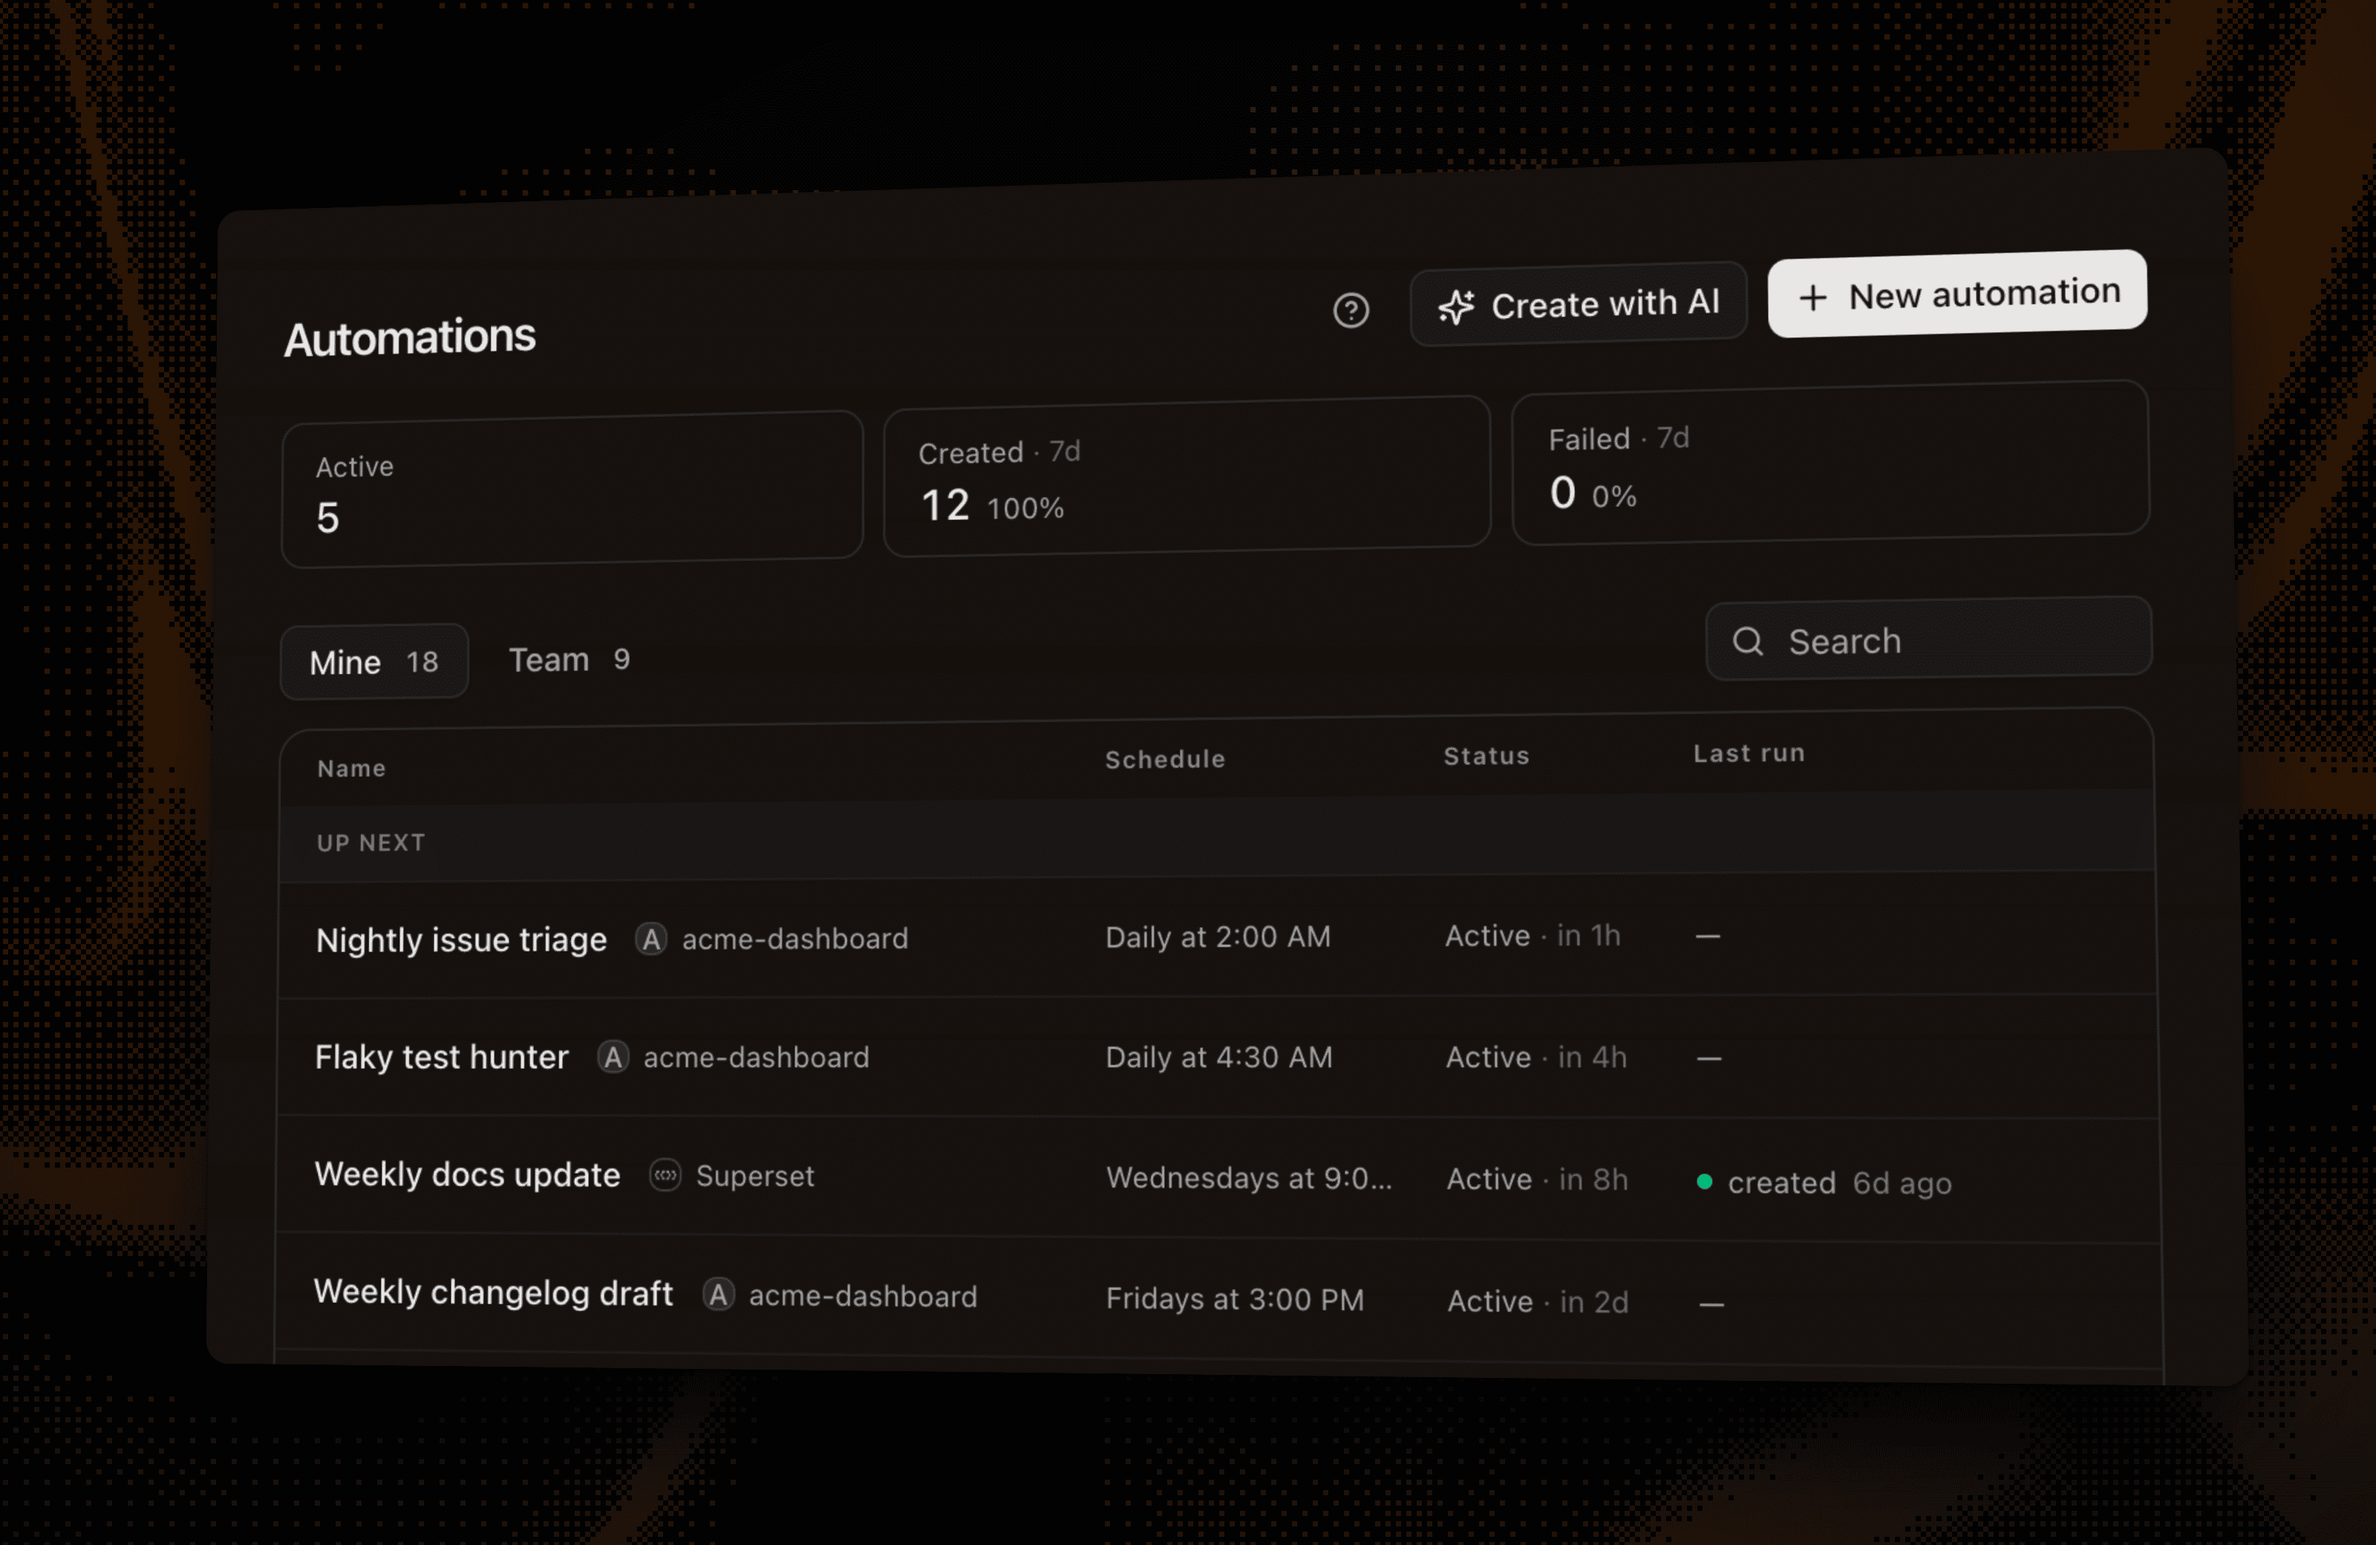
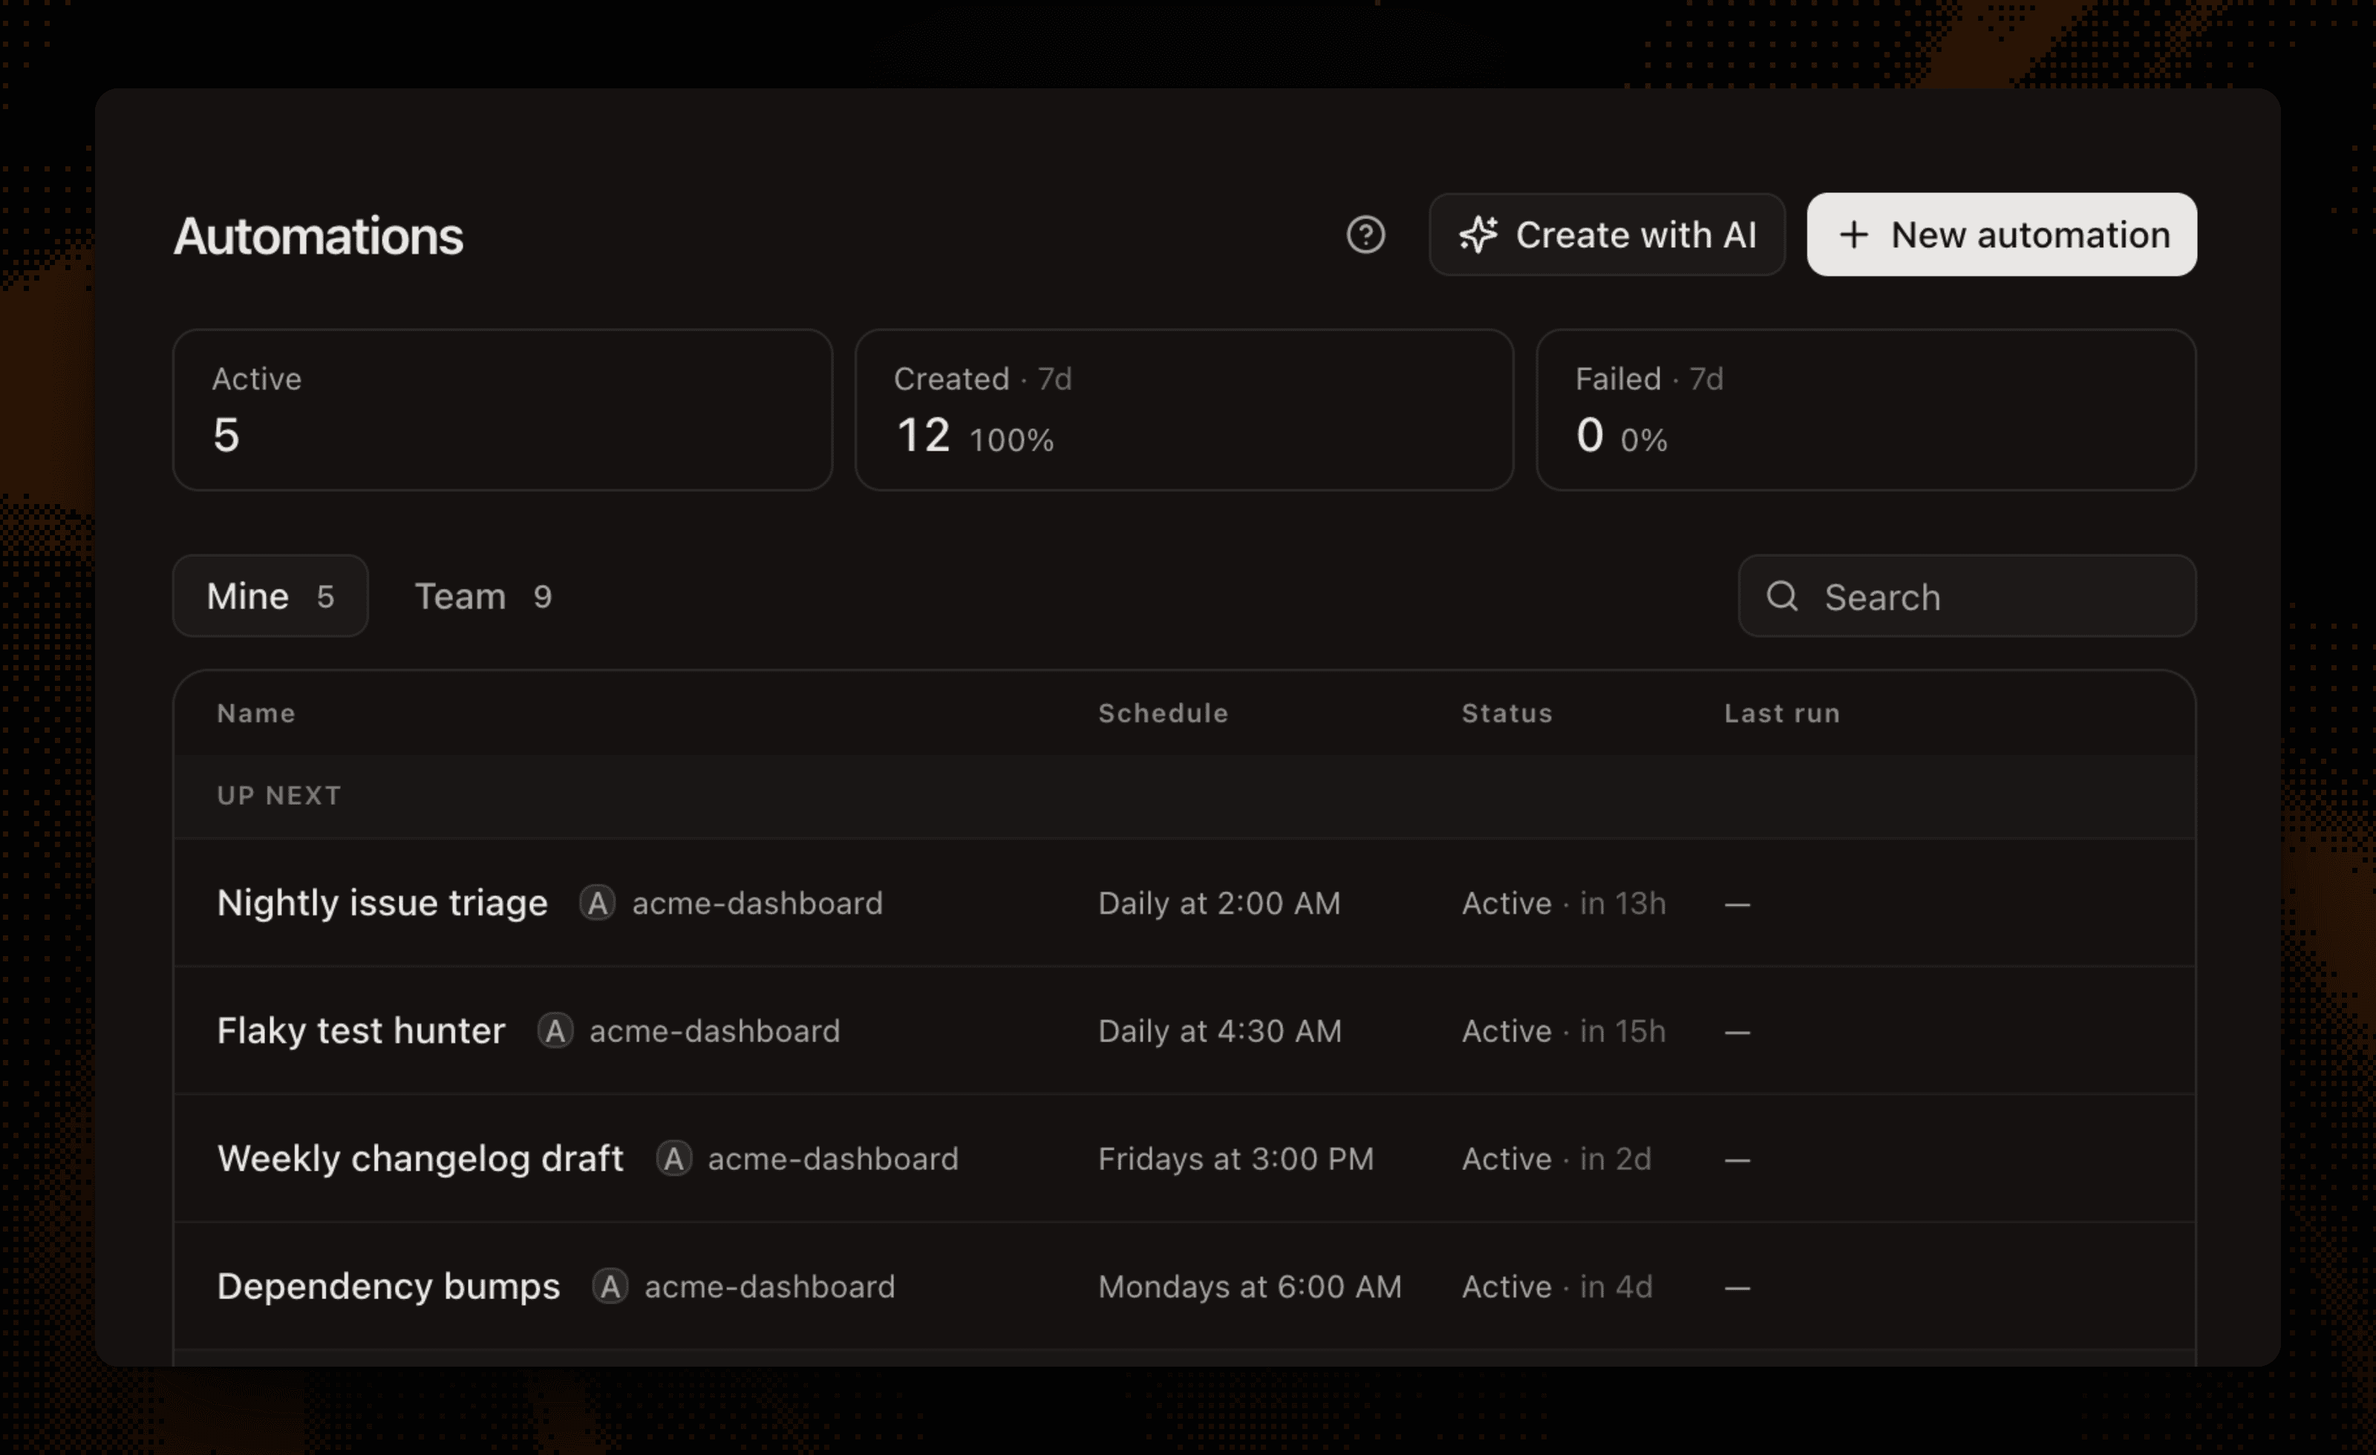
docs(readme): three more GIFs, drop the tilt, flat stills with tighter zooms
- agent-monitoring is now a GIF: the status dot flips from working to
  done as an agent finishes, next to a live diff-stat counter
- terminal is a GIF: typing a follow-up with an @-file mention in the
  rich prompt editor beside a split shell
- command-palette is a GIF: type-to-filter across workspace actions
- diff-viewer, browser-ports, and automations re-rendered flat (no
  perspective tilt) from fresh captures

diff --git a/README.md b/README.md
@@ -65,7 +65,7 @@ Track every agent from the sidebar, with working indicators, completion chimes, 
 
 </td>
 <td width="50%">
-  <a href="https://docs.superset.sh/agent-integration"><img src="apps/marketing/public/images/readme/agent-monitoring.png" alt="Agent status indicators in the workspace sidebar" width="100%" /></a>
+  <a href="https://docs.superset.sh/agent-integration"><img src="apps/marketing/public/images/readme/agent-monitoring.gif" alt="An agent finishing its task and the sidebar status flipping from working to done" width="100%" /></a>
 </td>
 </tr>
 <tr>
@@ -79,7 +79,7 @@ Tabs, infinite splits, presets, and persistent sessions that survive restarts. P
 
 </td>
 <td width="50%">
-  <a href="https://docs.superset.sh/terminal-integration"><img src="apps/marketing/public/images/readme/terminal.png" alt="Split terminals running agents side by side" width="100%" /></a>
+  <a href="https://docs.superset.sh/terminal-integration"><img src="apps/marketing/public/images/readme/terminal.gif" alt="Typing a follow-up with an @-file mention in the rich prompt editor next to a split terminal" width="100%" /></a>
 </td>
 </tr>
 <tr>
@@ -163,7 +163,7 @@ Jump to any workspace, action, or setting from one search box.
 
 </td>
 <td width="50%">
-  <a href="https://docs.superset.sh/keyboard-shortcuts"><img src="apps/marketing/public/images/readme/command-palette.png" alt="Command palette searching across workspaces and actions" width="100%" /></a>
+  <a href="https://docs.superset.sh/keyboard-shortcuts"><img src="apps/marketing/public/images/readme/command-palette.gif" alt="Typing in the command palette and filtering workspace actions live" width="100%" /></a>
 </td>
 </tr>
 </table>
